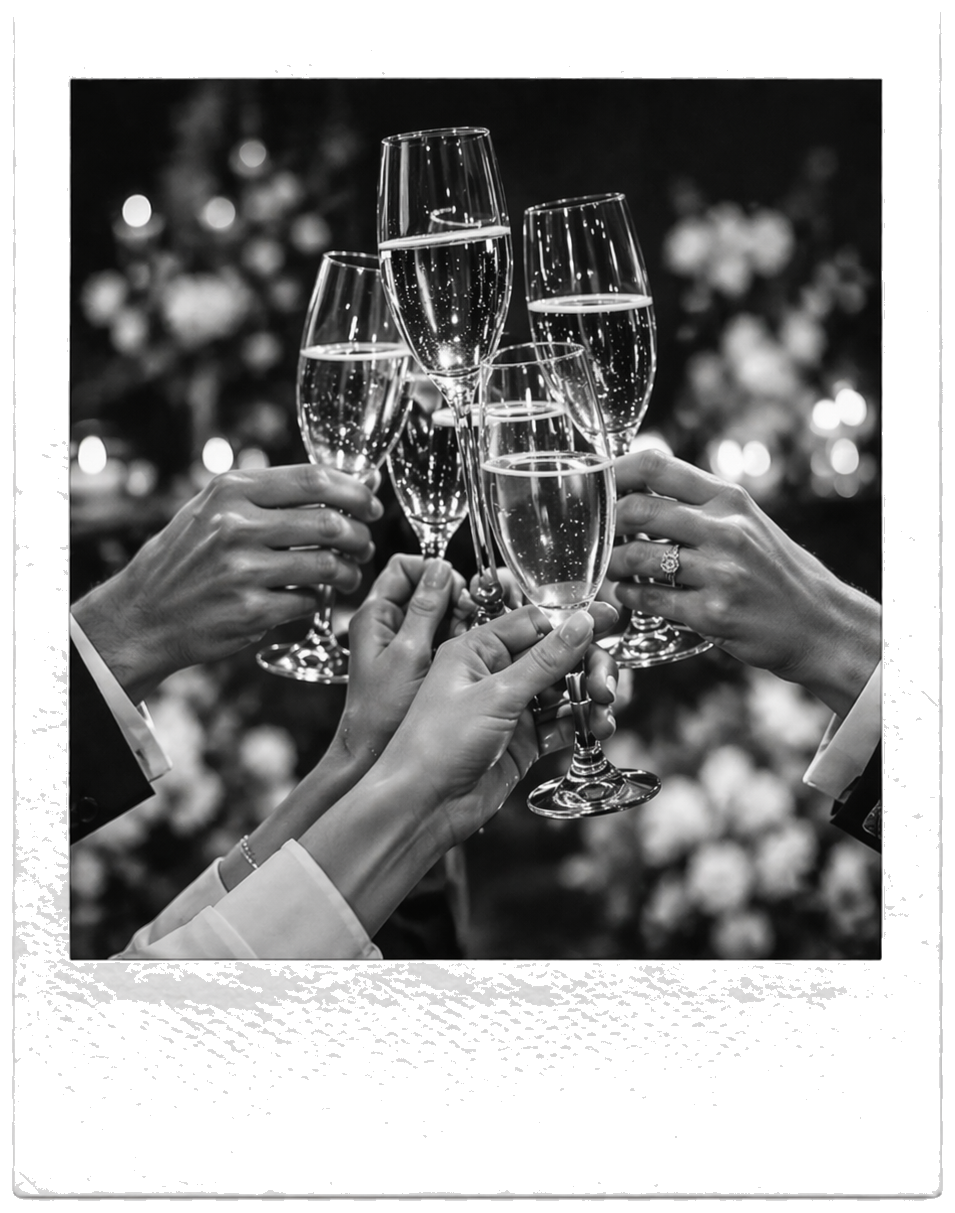
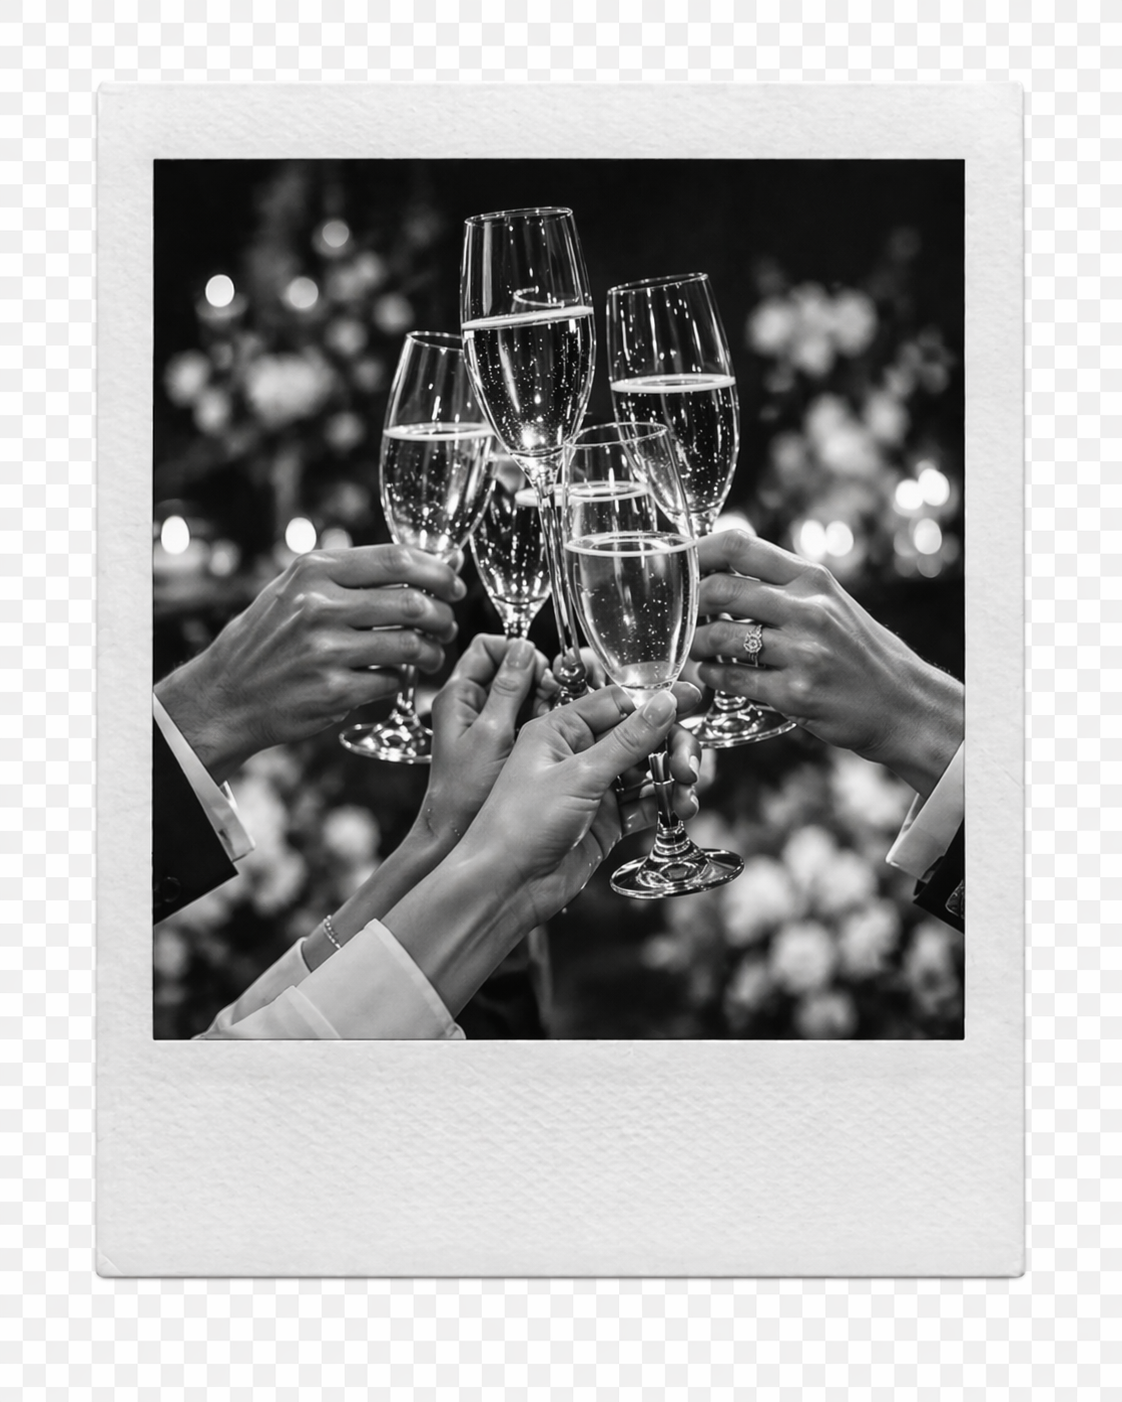
Replace photos with polaroid versions, remove wish numbers, add CLAUDE.md

diff --git a/index.html b/index.html
@@ -99,7 +99,6 @@
         <article class="wish wish-one">
           <img src="assets/wish-shape-1.png" alt="" aria-hidden="true">
           <div class="wish-content">
-            <span class="wish-number">1</span>
             <p>Чтобы наши руки были свободны для объятий, будем рады легким подаркам в конвертах.</p>
           </div>
         </article>
@@ -107,7 +106,6 @@
         <article class="wish wish-two">
           <img src="assets/wish-shape-2.png" alt="" aria-hidden="true">
           <div class="wish-content">
-            <span class="wish-number">2</span>
             <p>Не переживайте, мы не будем вызывать гостей говорить тосты. Во время свадьбы будет действовать открытый микрофон.</p>
           </div>
         </article>
@@ -115,7 +113,6 @@
         <article class="wish wish-three">
           <img src="assets/wish-shape-3.png" alt="" aria-hidden="true">
           <div class="wish-content">
-            <span class="wish-number">3</span>
             <p>Если вы хотите преподнести нам цветы, пусть это будет одна белая роза. Так у нас получится один роскошный букет.</p>
           </div>
         </article>
@@ -123,7 +120,6 @@
         <article class="wish wish-four">
           <img src="assets/wish-shape-4.png" alt="" aria-hidden="true">
           <div class="wish-content">
-            <span class="wish-number">4</span>
             <p>Мы очень любим ваших малышей, но этот праздник пройдет в формате 18+. Спасибо за понимание.</p>
           </div>
         </article>

diff --git a/styles.css b/styles.css
@@ -25,7 +25,7 @@ body {
   margin: 0;
   color: var(--ink);
   background:
-    linear-gradient(90deg, #d4cdc8 0%, #eae6e2 14%, #fefcfa 28%, #fefcfa 72%, #eae6e2 86%, #d4cdc8 100%);
+    linear-gradient(90deg, #d0cac4 0%, #eae6e2 16%, #ffffff 30%, #ffffff 70%, #eae6e2 84%, #d0cac4 100%);
   font-family: var(--serif);
   line-height: 1.35;
 }
@@ -259,21 +259,10 @@ textarea {
 .wish-content {
   position: absolute;
   z-index: 1;
-  inset: 10% 12% 10%;
+  inset: 12% 14% 12%;
   display: flex;
-  flex-direction: column;
   align-items: center;
   justify-content: center;
-  gap: 6px;
-}
-
-.wish-number {
-  color: var(--red);
-  font-family: var(--script);
-  font-size: clamp(36px, 9.5vw, 48px);
-  font-weight: 700;
-  line-height: 1;
-  text-align: center;
 }
 
 .wish p {
@@ -282,7 +271,7 @@ textarea {
   font-style: italic;
   font-size: clamp(14px, 3.6vw, 16px);
   font-weight: 400;
-  line-height: 1.5;
+  line-height: 1.55;
   text-align: center;
 }
 

diff --git a/CLAUDE.md b/CLAUDE.md
@@ -1,0 +1,72 @@
+# Wedding Invitation — Денис и Диляра
+
+Статический сайт-приглашение. Три файла + папка assets.
+
+## Ключевые файлы
+
+| Файл | Роль |
+|---|---|
+| `index.html` | Вся разметка, секции сверху вниз |
+| `styles.css` | Все стили, CSS-переменные в `:root` |
+| `script.js` | Countdown до 26.06.2026, отправка RSVP-формы |
+
+## Секции index.html (по порядку)
+
+1. **`.hero`** — заголовок, love-script, фото пары (`photo-close.png`), конверт
+2. **`.date-section`** — календарь, countdown (#cd-days/#cd-hours/#cd-mins), текст с адресами + ссылки на Яндекс.Карты
+3. **`.photo-story`** — фото в танце (`photo-dance.png`)
+4. **`.wishes`** — 4 wish-карточки с фигурными формами (без цифр, только текст)
+5. **`.cheers-section`** — script «Cheers», фото бокалов (`photo-cheers.png`)
+6. **`.rsvp-section`** — форма на FormSubmit → den484411@gmail.com
+7. **`.finale`** — фото обнимающихся (`photo-embrace.png`), «WITH love»
+
+## CSS-переменные (`:root`)
+
+```css
+--paper   #f7efe6   /* фон карточки */
+--ink     #25211f   /* основной текст */
+--red     #a70f16   /* акцент, цифры, кнопка */
+--serif   Cormorant Garamond  /* тело текста, курсив в wish */
+--display Oranienbaum         /* заголовки UPPERCASE */
+--script  Caveat              /* рукописный — «Пожелание», «love» */
+--mono    Anonymous Pro       /* адреса, форма, подписи */
+```
+
+## Assets
+
+```
+assets/
+  photo-close.png     портрет пары (hero, поляроид)
+  photo-dance.png     танец (photo-story, поляроид)
+  photo-cheers.png    бокалы (cheers, поляроид)
+  photo-embrace.png   объятия (finale, поляроид)
+  calendar.png        таблица-календарь с кружком на 26
+  envelope.png        красный конверт с письмом
+  love-script.png     «I love» по диагонали (hero bg)
+  cheers-script.png   «Cheers!» по диагонали (cheers bg)
+  wish-shape-1..4.png фигурные формы для пожеланий
+  reply-paper.png     фон бумаги для RSVP-формы
+  line-wave-*.png     волнистые линии-разделители
+```
+
+## Wish-карточки — aspect-ratio
+
+Каждая карточка имеет точный `aspect-ratio` по размеру картинки:
+- wish-1: `1311/607`  wish-2: `1104/512`
+- wish-3: `1308/656`  wish-4: `1385/741`
+
+Контент (`.wish-content`) абсолютно позиционирован `inset: 12% 14% 12%`, текст центрирован, italic Cormorant Garamond 14-16px.
+
+## Запуск локально
+
+```bash
+python -m http.server 8081
+# http://localhost:8081
+```
+
+Preview-сервер: `.claude/launch.json` → порт 8081.
+
+## GitHub
+
+Репо: https://github.com/Denistarazov/wedding-invitation  
+Branch: master
